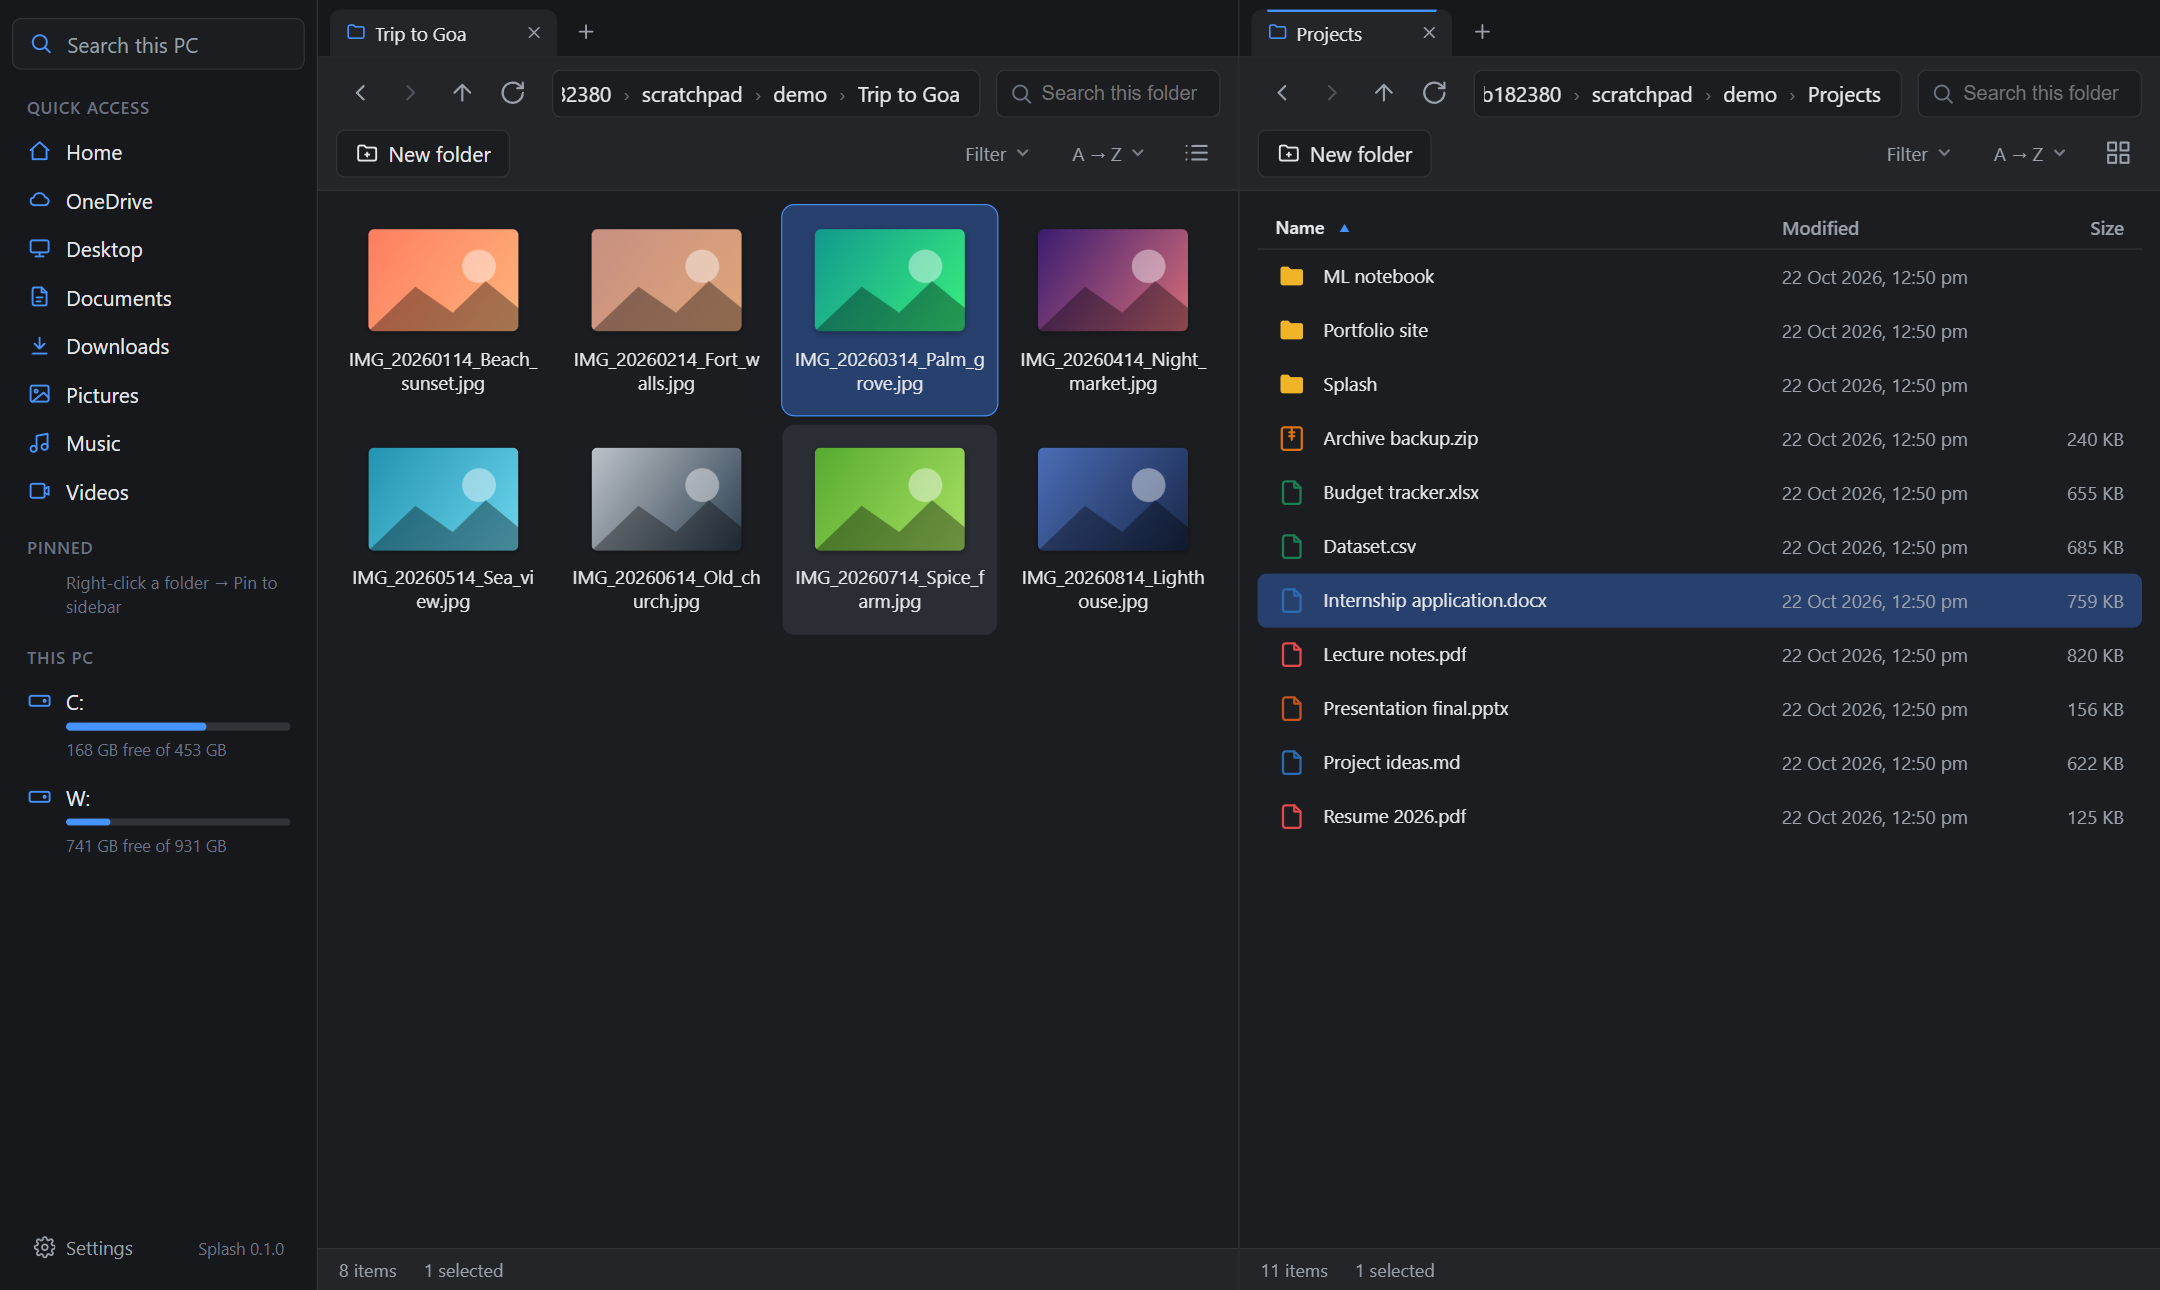
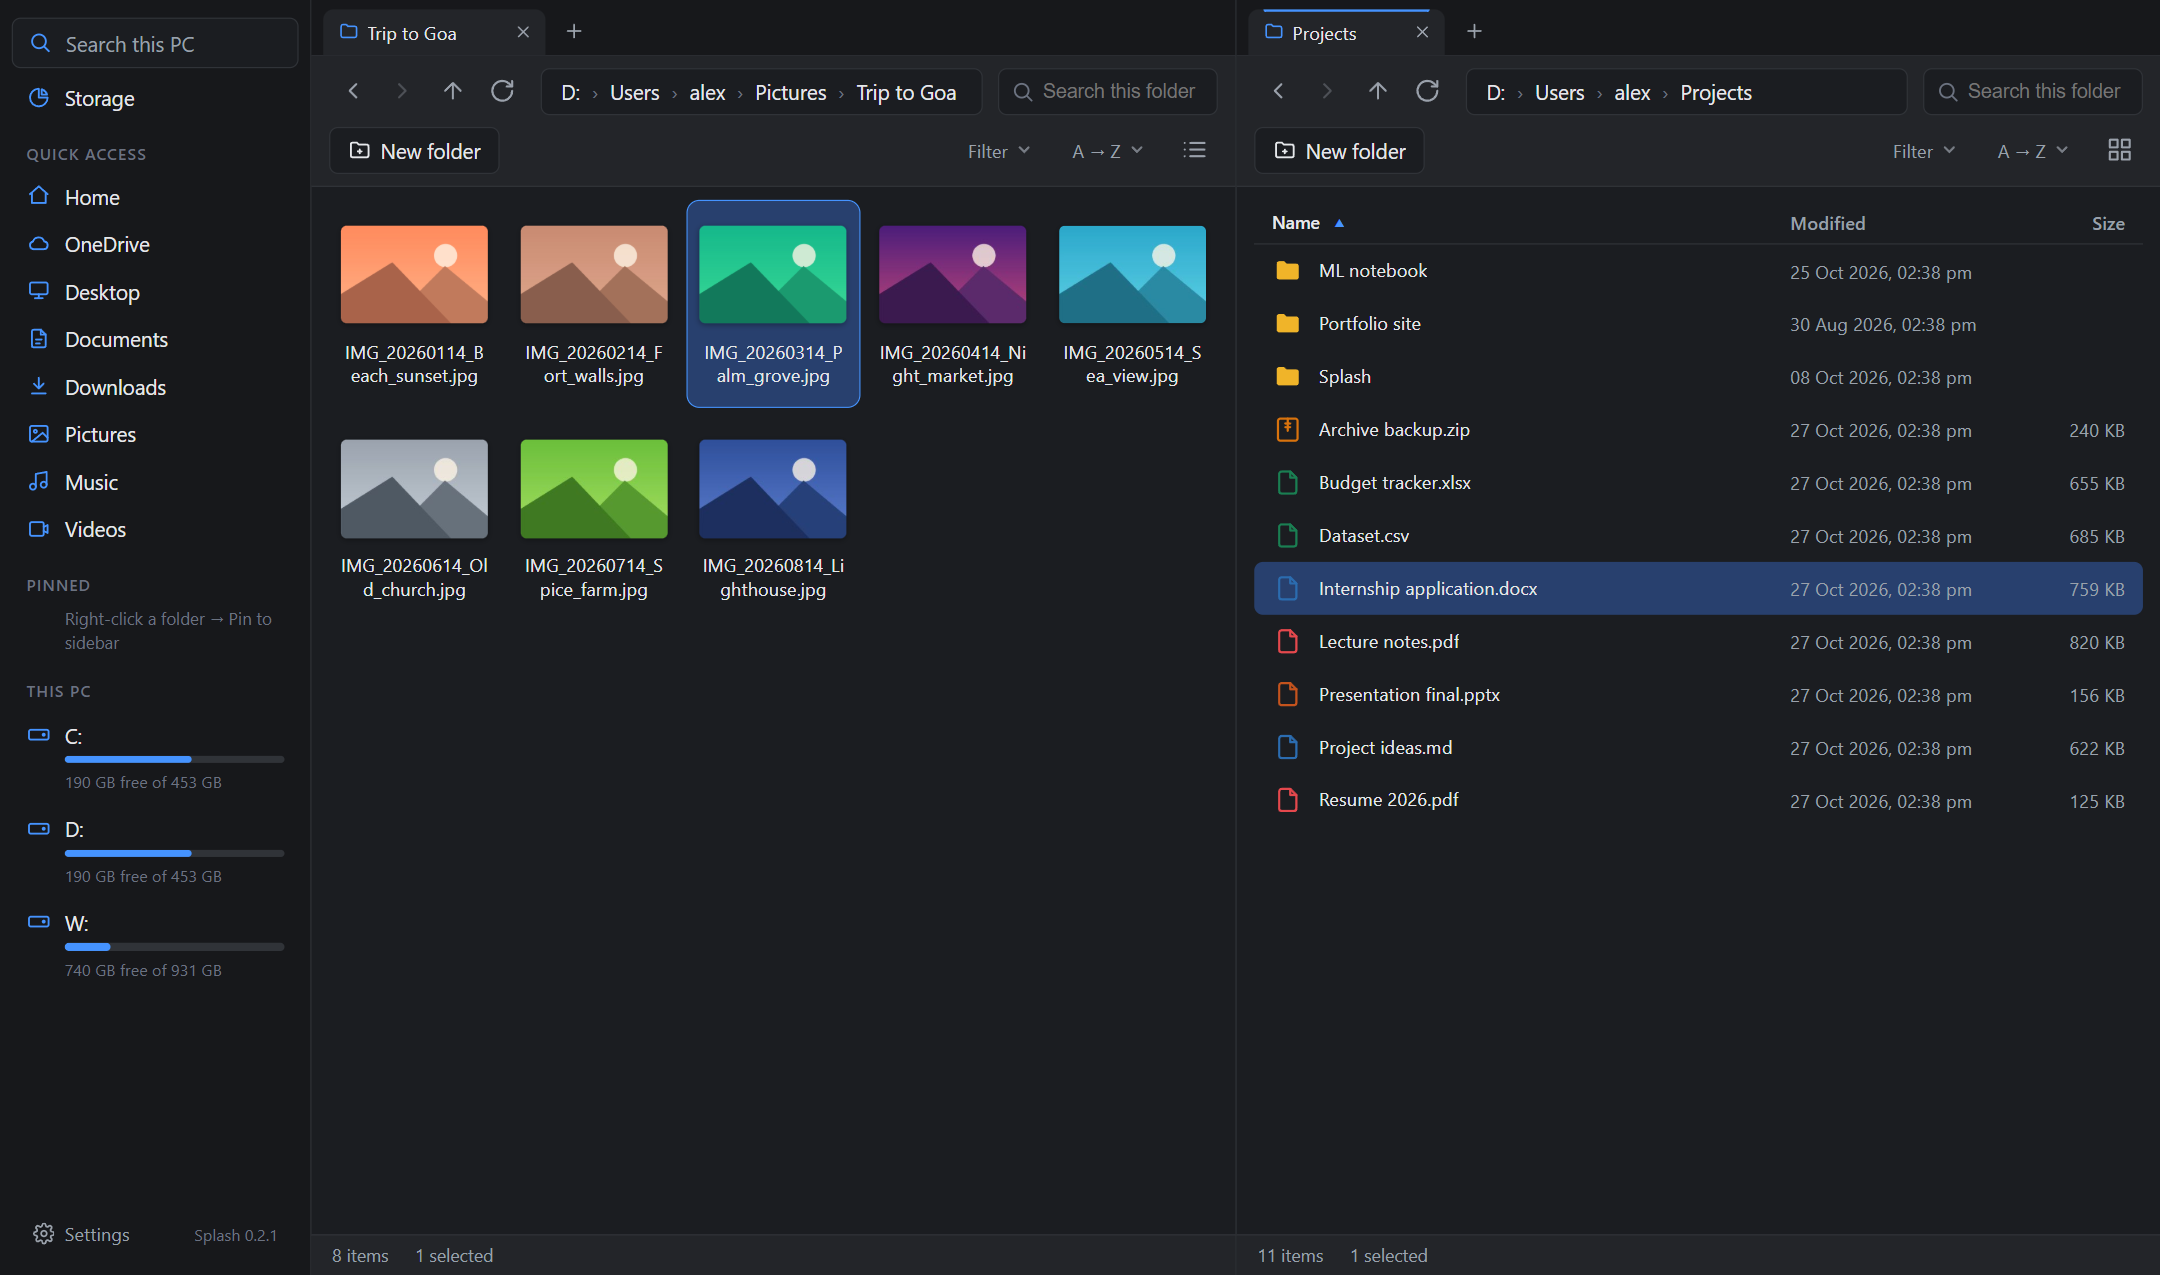
README: new screenshots for 0.2.1, including the Storage view

diff --git a/README.md b/README.md
@@ -32,6 +32,8 @@ Free and open source (MIT). Built with [Tauri 2](https://tauri.app) (Rust) and R
 Click **Storage** in the sidebar, then **Scan** your Home folder or a whole
 drive (about 5–20 seconds). Splash measures every folder and shows:
 
+![Splash Storage: a map of what takes space, with cleanable items striped, and cleanup recommendations](docs/storage.png)
+
 - **A map of your space.** Every box is a folder or file, sized by how much it
   takes up.
   - **Click a box to look inside it.** Go back up with the ↑ arrow, the path
